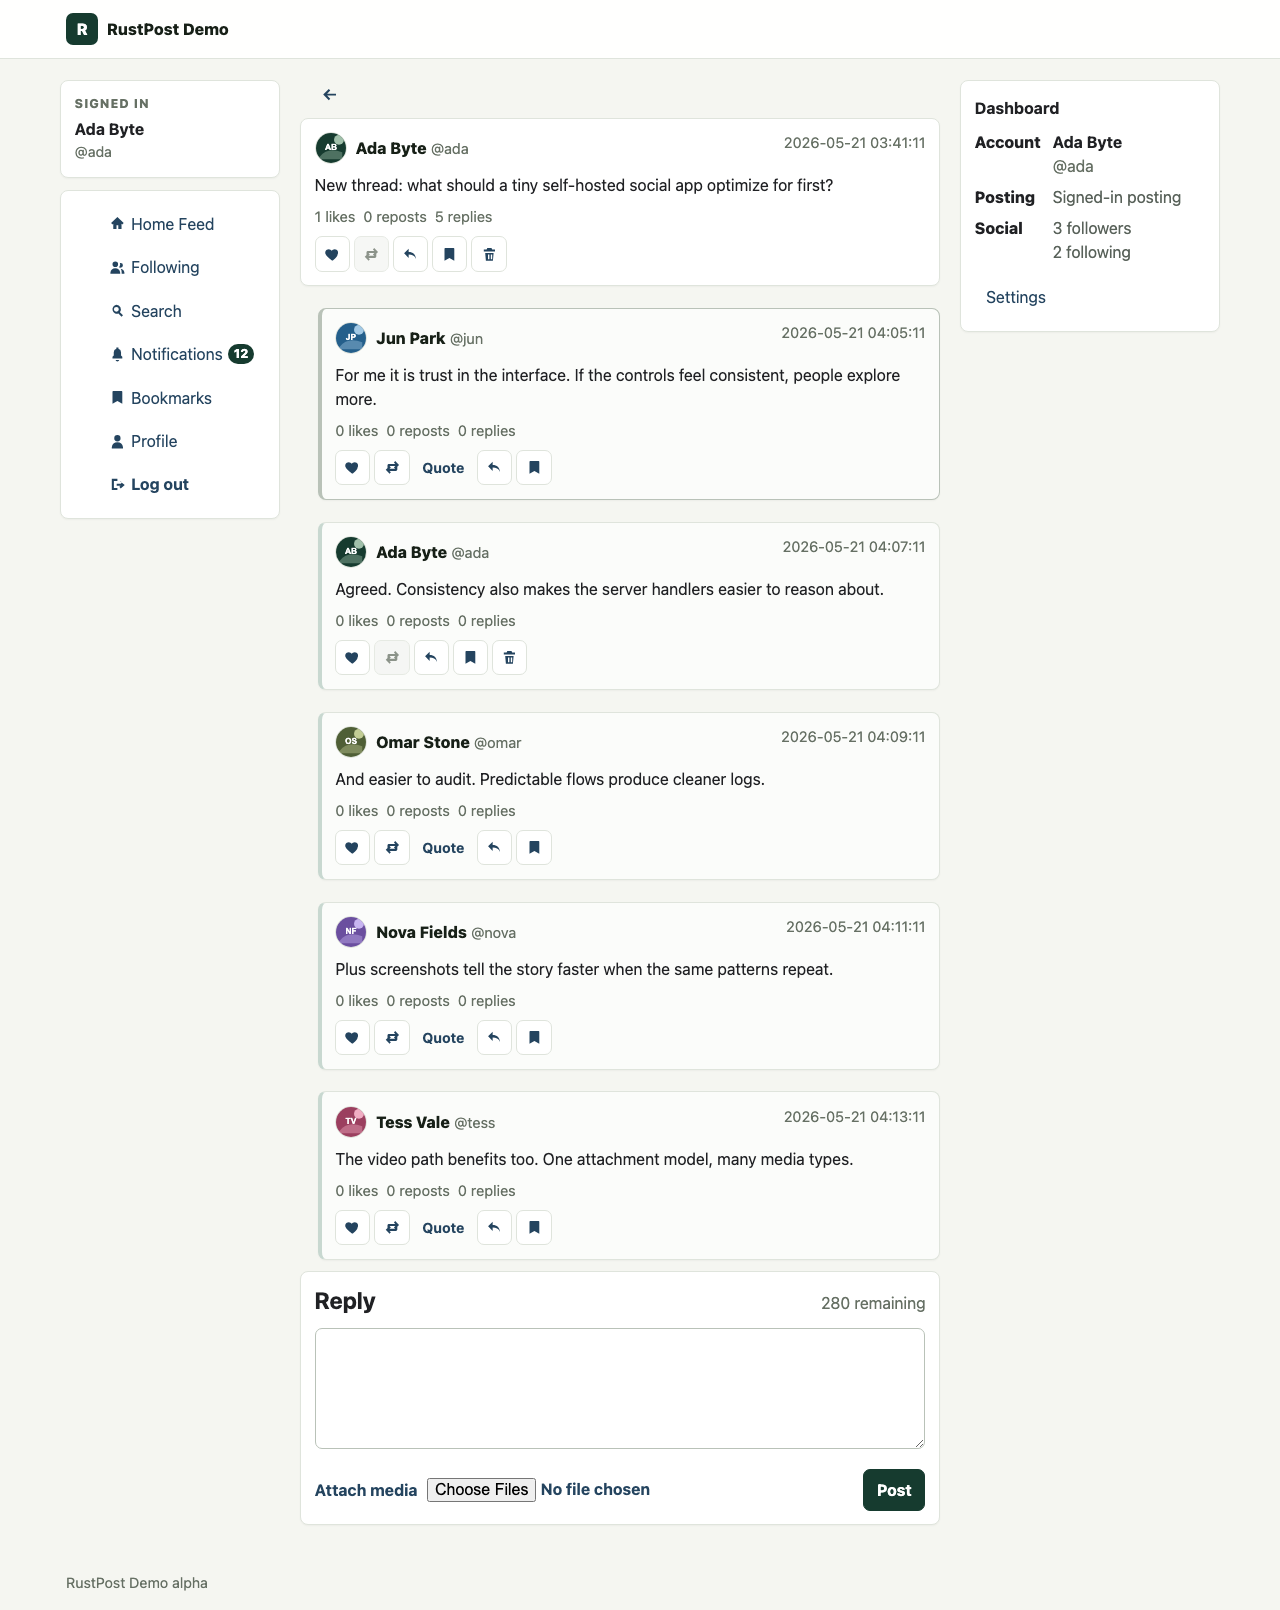
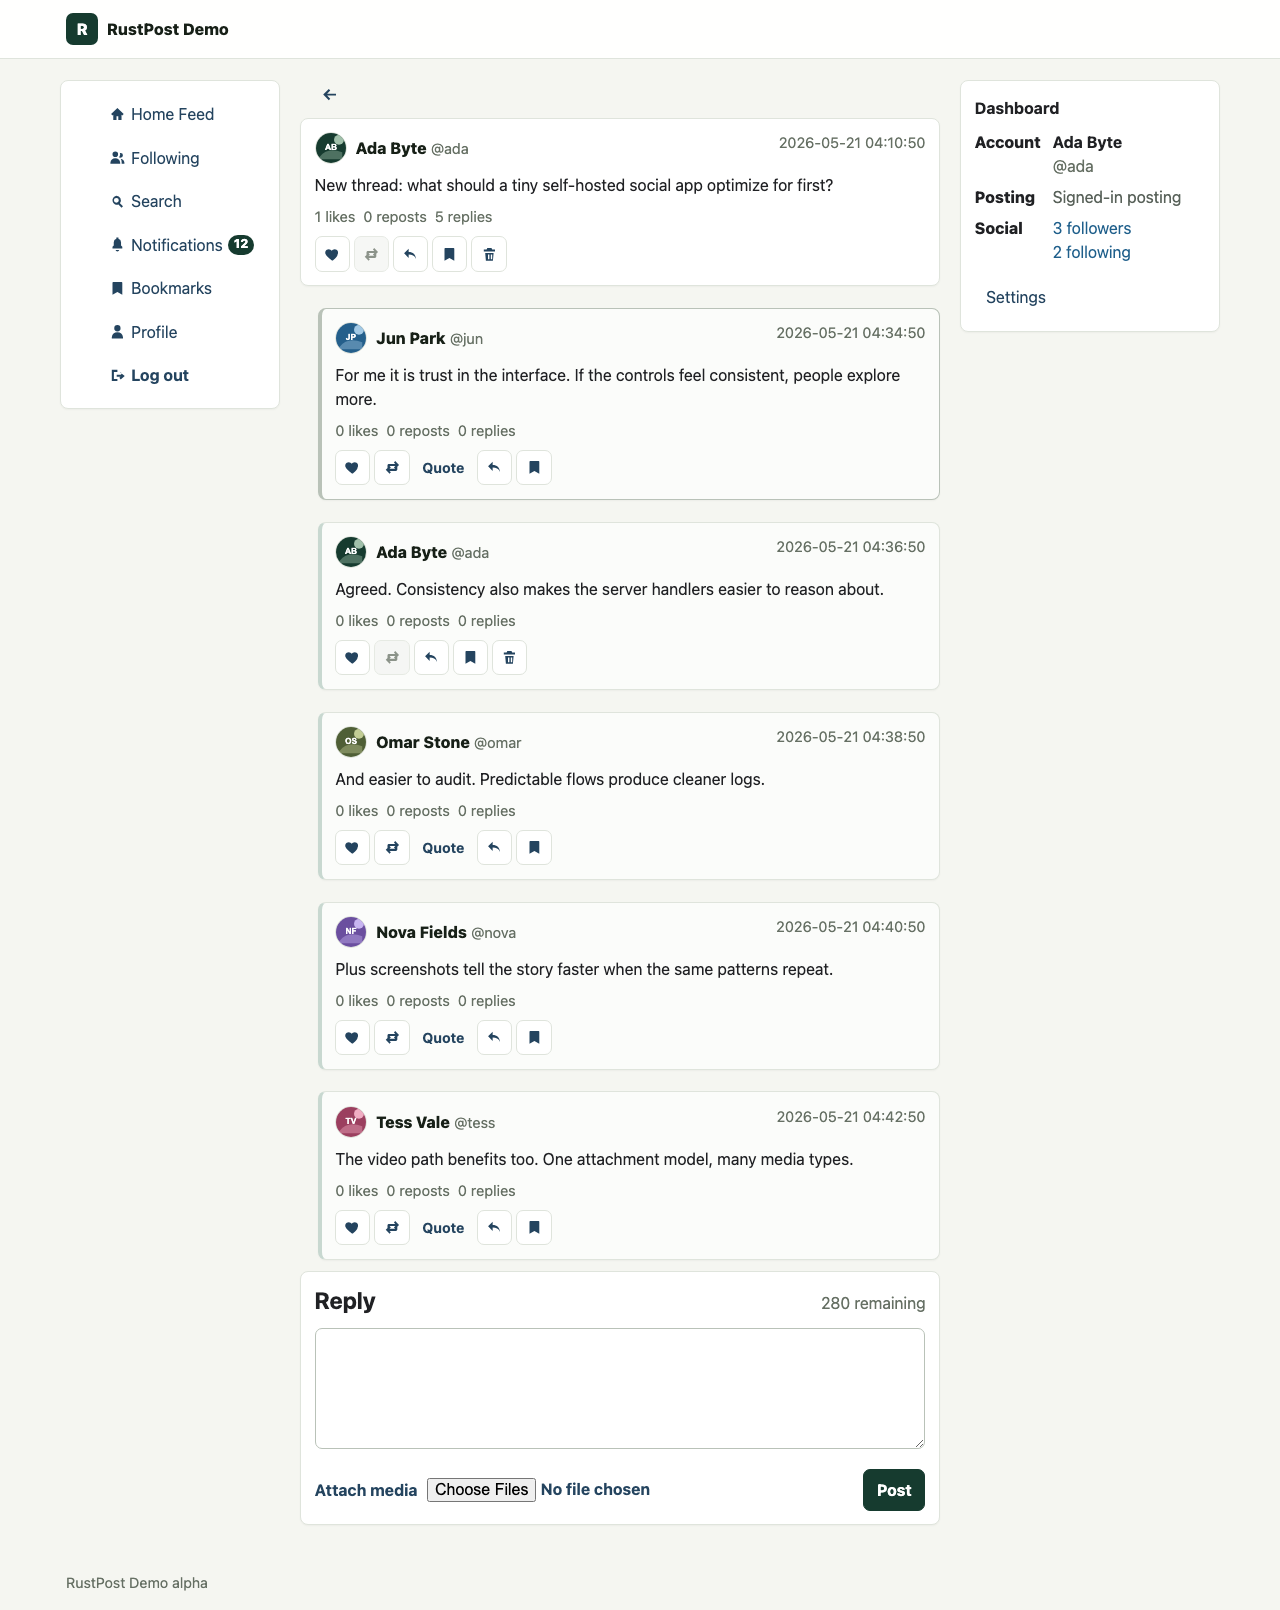
Clean up sidebar and add follower pages

diff --git a/src/render.rs b/src/render.rs
@@ -169,20 +169,9 @@ fn nav_link(href: &str, label: &str, icon: &str) -> String {
     )
 }
 
-fn left_rail(user: Option<&CurrentUser>, nav: &str) -> String {
-    let account = user.map_or_else(
-        || r#"<p class="rail-kicker">Guest session</p><p class="muted">Log in or register to post.</p>"#.to_owned(),
-        |user| {
-            format!(
-                r#"<p class="rail-kicker">Signed in</p><a class="rail-account" href="/users/{}"><strong>{}</strong><span>@{}</span></a>"#,
-                html_escape::encode_double_quoted_attribute(&user.username),
-                html_escape::encode_text(&user.display_name),
-                html_escape::encode_text(&user.username)
-            )
-        },
-    );
+fn left_rail(_user: Option<&CurrentUser>, nav: &str) -> String {
     format!(
-        r#"<aside class="left-rail" data-testid="left-rail"><section class="side-rail-card">{account}</section><nav class="rail-nav" aria-label="Primary">{nav}</nav></aside>"#
+        r#"<aside class="left-rail" data-testid="left-rail"><nav class="rail-nav" aria-label="Primary">{nav}</nav></aside>"#
     )
 }
 
@@ -218,14 +207,15 @@ fn dashboard_panel(user: Option<&CurrentUser>, context: &LayoutContext) -> Strin
     );
     let social = match (context.follower_count, context.following_count) {
         (Some(followers), Some(following)) => {
-            format!(r#"<dt>Social</dt><dd>{followers} followers<br>{following} following</dd>"#)
+            user.map_or_else(String::new, |user| {
+                let username = html_escape::encode_double_quoted_attribute(&user.username);
+                let display_name = html_escape::encode_double_quoted_attribute(&user.display_name);
+                format!(
+                    r#"<dt>Social</dt><dd><a data-testid="dashboard-followers-link" href="/users/{username}/followers" aria-label="View followers for {display_name}">{followers} followers</a><br><a data-testid="dashboard-following-link" href="/users/{username}/following" aria-label="View users {display_name} follows">{following} following</a></dd>"#
+                )
+            })
         }
         _ => String::new(),
-    };
-    let admin = if user.is_some_and(|user| user.is_admin) {
-        r#"<a class="button-link" href="/admin">Admin</a>"#
-    } else {
-        ""
     };
     let settings = if user.is_some() {
         r#"<a class="button-link" href="/settings">Settings</a>"#
@@ -233,7 +223,7 @@ fn dashboard_panel(user: Option<&CurrentUser>, context: &LayoutContext) -> Strin
         ""
     };
     format!(
-        r#"<aside class="right-rail" data-testid="right-rail"><section class="side-rail-card"><h2>Dashboard</h2><dl class="dashboard-list">{}<dt>Posting</dt><dd>{}</dd>{}</dl><div class="quick-links">{settings}{admin}</div></section></aside>"#,
+        r#"<aside class="right-rail" data-testid="right-rail"><section class="side-rail-card"><h2>Dashboard</h2><dl class="dashboard-list">{}<dt>Posting</dt><dd>{}</dd>{}</dl><div class="dashboard-actions">{settings}</div></section></aside>"#,
         account, posting, social
     )
 }
@@ -671,6 +661,41 @@ pub fn accounts(accounts: &[AccountView], csrf: &str) -> String {
         .collect::<Vec<_>>()
         .join("");
     format!(r#"<section class="account-list">{rows}</section>"#)
+}
+
+pub fn account_links(accounts: &[AccountView], empty_message: &str) -> String {
+    if accounts.is_empty() {
+        return empty_state(empty_message, "");
+    }
+    let rows = accounts
+        .iter()
+        .map(|account| {
+            let avatar = account.profile_picture_path.as_ref().map_or_else(
+                || {
+                    let initial = account.display_name.chars().next().unwrap_or('R');
+                    format!(
+                        r#"<span class="post-avatar placeholder" aria-hidden="true">{}</span>"#,
+                        html_escape::encode_text(&initial.to_string())
+                    )
+                },
+                |path| {
+                    format!(
+                        r#"<img class="post-avatar" src="{}" alt="" loading="lazy">"#,
+                        html_escape::encode_double_quoted_attribute(path)
+                    )
+                },
+            );
+            format!(
+                r#"<article class="account-row" data-testid="account-row">{}<div><a class="author-name" href="/users/{}">{}</a> <span class="username">@{}</span></div></article>"#,
+                avatar,
+                html_escape::encode_double_quoted_attribute(&account.username),
+                html_escape::encode_text(&account.display_name),
+                html_escape::encode_text(&account.username)
+            )
+        })
+        .collect::<Vec<_>>()
+        .join("");
+    format!(r#"<section class="account-list" data-testid="account-list">{rows}</section>"#)
 }
 
 pub fn search_page(
@@ -1504,7 +1529,7 @@ nav{display:flex;gap:.35rem;align-items:center;flex-wrap:wrap;justify-content:fl
 nav a:hover,nav button:hover,.button-link:hover{background:var(--hover);text-decoration:none}nav form,.actions form{display:inline}
 nav svg{width:1.05rem;height:1.05rem;fill:currentColor;flex:0 0 auto}
 .nav-badge{display:inline-grid;place-items:center;min-width:1.25rem;height:1.25rem;border-radius:999px;padding:0 .35rem;background:var(--brand);color:var(--brand-text);font-size:.78rem;font-weight:800;line-height:1}
-main{padding:1.25rem}.app-shell{width:min(100%,1180px);margin:0 auto;display:grid;grid-template-columns:220px minmax(0,640px) 260px;gap:1.25rem;align-items:start;justify-content:center}.primary-column{min-width:0;width:100%}.left-rail,.right-rail{min-width:0;position:sticky;top:5rem;display:grid;gap:.75rem}.side-rail-card,.rail-nav{background:var(--surface);border:1px solid var(--border);border-radius:8px;padding:.85rem;color:var(--muted-strong);box-shadow:0 1px 2px var(--shadow)}.side-rail-card h2{margin:.1rem 0 .6rem;font-size:1rem;color:var(--text)}.rail-kicker{margin:0 0 .25rem;color:var(--muted);font-size:.78rem;font-weight:800;text-transform:uppercase;letter-spacing:.08em}.rail-account{display:grid;color:var(--text);overflow-wrap:anywhere}.rail-account span{color:var(--muted);font-size:.9rem}.rail-account:hover{text-decoration:none}.rail-nav{display:grid;gap:.25rem}.rail-nav a,.rail-nav button{width:100%;justify-content:flex-start}.rail-nav form{display:block}.mobile-nav{display:none}.dashboard-list{display:grid;grid-template-columns:auto minmax(0,1fr);gap:.45rem .75rem;margin:.25rem 0 .85rem}.dashboard-list dt{font-weight:800;color:var(--text)}.dashboard-list dd{margin:0;overflow-wrap:anywhere}.dashboard-account{color:var(--text)}.dashboard-account:hover{text-decoration:none}.quick-links{display:flex;flex-wrap:wrap;gap:.4rem}.site-footer{max-width:1180px;margin:0 auto;padding:1rem;color:var(--muted);font-size:.9rem}.footer-onion{display:block;margin-top:.25rem;overflow-wrap:anywhere}
+main{padding:1.25rem}.app-shell{width:min(100%,1180px);margin:0 auto;display:grid;grid-template-columns:220px minmax(0,640px) 260px;gap:1.25rem;align-items:start;justify-content:center}.primary-column{min-width:0;width:100%}.left-rail,.right-rail{min-width:0;position:sticky;top:5rem;display:grid;gap:.75rem}.side-rail-card,.rail-nav{background:var(--surface);border:1px solid var(--border);border-radius:8px;padding:.85rem;color:var(--muted-strong);box-shadow:0 1px 2px var(--shadow)}.side-rail-card h2{margin:.1rem 0 .6rem;font-size:1rem;color:var(--text)}.rail-nav{display:grid;gap:.25rem}.rail-nav a,.rail-nav button{width:100%;justify-content:flex-start}.rail-nav form{display:block}.mobile-nav{display:none}.dashboard-list{display:grid;grid-template-columns:auto minmax(0,1fr);gap:.45rem .75rem;margin:.25rem 0 .85rem}.dashboard-list dt{font-weight:800;color:var(--text)}.dashboard-list dd{margin:0;overflow-wrap:anywhere}.dashboard-account{color:var(--text)}.dashboard-account:hover{text-decoration:none}.dashboard-actions{display:flex;flex-wrap:wrap;gap:.4rem}.site-footer{max-width:1180px;margin:0 auto;padding:1rem;color:var(--muted);font-size:.9rem}.footer-onion{display:block;margin-top:.25rem;overflow-wrap:anywhere}
 .page-header,.post,.composer,.panel,.empty-state,.notice{background:var(--surface);border:1px solid var(--border);border-radius:8px;margin:0 0 .7rem;padding:.85rem;box-shadow:0 1px 2px var(--shadow)}
 .page-header h1,.section-heading h1,.panel h1{margin:0;font-size:1.45rem;line-height:1.2}.panel h1+table,.panel h1+form,.panel h1+p,.panel h1+dl{margin-top:.85rem}.page-header p,.muted,.empty-state p{color:var(--muted);margin:.35rem 0 0}.section-heading{display:flex;justify-content:space-between;gap:1rem;align-items:baseline;margin-bottom:.8rem}
 .notifications-hero{background:var(--surface);border:1px solid var(--border);border-radius:8px;margin:0 0 .7rem;padding:1rem;box-shadow:0 1px 2px var(--shadow);display:flex;align-items:center;justify-content:space-between;gap:1rem}.notifications-hero h1{margin:0;font-size:1.55rem;line-height:1.15}.notifications-hero p:not(.eyebrow){margin:.35rem 0 0;color:var(--muted-strong)}.caught-up-pill{display:inline-flex;align-items:center;min-height:2rem;border:1px solid var(--success-border);border-radius:999px;background:var(--success-bg);color:var(--text-strong);padding:.32rem .75rem;font-weight:800}.caught-up{padding:.75rem .85rem}.caught-up p{margin:0}.notifications-list{display:grid;gap:.5rem}.notification-group{margin:.8rem .15rem .2rem;color:var(--muted);font-size:.82rem;text-transform:uppercase;letter-spacing:.08em}.notification-row{position:relative;display:grid;grid-template-columns:auto minmax(0,1fr) auto;gap:.75rem;align-items:start;background:var(--surface);border:1px solid var(--border);border-radius:8px;padding:.8rem;box-shadow:0 1px 2px var(--shadow)}.notification-row.unread{border-color:var(--border-strong);background:var(--surface-subtle)}.notification-row[data-card-href]{cursor:pointer}.notification-row[data-card-href]:hover{border-color:var(--border-strong);background:var(--hover)}.notification-kind{display:grid;place-items:center;width:2rem;height:2rem;border-radius:7px;background:var(--surface-muted);color:var(--link-strong);font-weight:900;font-size:.8rem}.notification-row.unread .notification-kind{background:var(--brand);color:var(--brand-text)}.notification-body{min-width:0}.notification-line{margin:0;overflow-wrap:anywhere}.notification-meta{margin:.35rem 0 0;color:var(--muted);font-size:.88rem}.notification-preview{display:block;margin:.5rem 0 0;border:1px solid var(--border);border-radius:7px;padding:.55rem .65rem;background:var(--surface-subtle);color:var(--muted-strong);overflow-wrap:anywhere}.notification-preview:hover{background:var(--surface);text-decoration:none}.notification-preview.unavailable{border-style:dashed}.unread-dot{width:.65rem;height:.65rem;border-radius:999px;background:var(--brand);margin-top:.7rem}
@@ -1591,6 +1616,41 @@ mod tests {
     }
 
     #[test]
+    fn signed_in_left_rail_contains_navigation_only() {
+        let user = CurrentUser {
+            id: 1,
+            username: "ada".to_owned(),
+            display_name: "Ada Lovelace".to_owned(),
+            is_admin: false,
+            is_suspended: false,
+            theme: Theme::Light,
+        };
+        let body = layout_with_csrf(
+            Some(&user),
+            Some("csrf"),
+            "Home Feed",
+            "<p>body</p>",
+            "RustPost",
+        );
+        let left_rail = body
+            .split_once(r#"<aside class="left-rail" data-testid="left-rail">"#)
+            .and_then(|(_, rest)| rest.split_once("</aside>"))
+            .map(|(panel, _)| panel)
+            .expect("left rail");
+
+        assert!(left_rail.contains("Home Feed"));
+        assert!(left_rail.contains("Following"));
+        assert!(left_rail.contains("Search"));
+        assert!(left_rail.contains("Notifications"));
+        assert!(left_rail.contains("Bookmarks"));
+        assert!(left_rail.contains("Profile"));
+        assert!(left_rail.contains("Log out"));
+        assert!(!left_rail.contains("Signed in"));
+        assert!(!left_rail.contains("Ada Lovelace"));
+        assert!(!left_rail.contains("rail-account"));
+    }
+
+    #[test]
     fn dashboard_uses_account_link_without_duplicate_feed_links_or_onion() {
         let user = CurrentUser {
             id: 1,
@@ -1621,8 +1681,16 @@ mod tests {
             .expect("dashboard panel");
         assert!(dashboard.contains(r#"href="/users/ada""#));
         assert!(dashboard.contains("Ada Lovelace"));
+        assert!(dashboard.contains(r#"href="/users/ada/followers""#));
+        assert!(dashboard.contains(r#"aria-label="View followers for Ada Lovelace""#));
+        assert!(dashboard.contains(">2 followers</a>"));
+        assert!(dashboard.contains(r#"href="/users/ada/following""#));
+        assert!(dashboard.contains(r#"aria-label="View users Ada Lovelace follows""#));
+        assert!(dashboard.contains(">3 following</a>"));
+        assert!(dashboard.contains(r#"<a class="button-link" href="/settings">Settings</a>"#));
         assert!(!dashboard.contains(r#"href="/home">Home Feed"#));
         assert!(!dashboard.contains(r#"href="/following">Following"#));
+        assert!(!dashboard.contains("quick-links"));
         assert!(!dashboard.contains("examplehiddenservice.onion"));
     }
 

diff --git a/src/server.rs b/src/server.rs
@@ -72,6 +72,8 @@ pub fn router(state: Arc<AppState>) -> Router {
         .route("/posts/{id}/quote", get(quote_form).post(quote_post))
         .route("/posts/{id}/reply", post(reply_redirect))
         .route("/users/{username}", get(profile))
+        .route("/users/{username}/followers", get(profile_followers))
+        .route("/users/{username}/following", get(profile_following))
         .route("/users/{id}/follow", post(follow))
         .route("/users/{id}/unfollow", post(unfollow))
         .route("/users/{id}/block", post(block))
@@ -1058,6 +1060,100 @@ async fn profile(
             user.as_ref(),
             csrf.as_deref(),
             &profile_username,
+            &body,
+        )
+        .await?,
+    ))
+}
+
+async fn profile_identity(
+    pool: &SqlitePool,
+    username: &str,
+) -> anyhow::Result<Option<(i64, String, String)>> {
+    let normalized_username = username.to_ascii_lowercase();
+    pool.call(move |conn| {
+        conn.query_row(
+            r#"
+            SELECT id, username, display_name
+            FROM users
+            WHERE normalized_username = ? AND is_deleted = 0
+            "#,
+            [normalized_username],
+            |row| Ok((row.get(0)?, row.get(1)?, row.get(2)?)),
+        )
+        .optional()
+        .map_err(Into::into)
+    })
+    .await
+}
+
+async fn profile_followers(
+    State(state): State<Arc<AppState>>,
+    headers: HeaderMap,
+    Path(username): Path<String>,
+) -> AppResult<Html<String>> {
+    let user = current(&state, &headers).await?;
+    let csrf = form_csrf(&state, &headers).await;
+    let Some((profile_id, profile_username, display_name)) =
+        profile_identity(&state.pool, &username).await?
+    else {
+        return Err(AppError::NotFound);
+    };
+    let accounts =
+        social::followers_accounts(&state.pool, profile_id, user.as_ref().map(|user| user.id))
+            .await?;
+    let body = format!(
+        "{}{}",
+        render::page_header(
+            &format!("{display_name} followers"),
+            &format!("Users who follow @{profile_username}.")
+        ),
+        render::account_links(&accounts, "No followers yet.")
+    );
+    Ok(Html(
+        page_layout(
+            &state,
+            user.as_ref(),
+            csrf.as_deref(),
+            &format!("{display_name} followers"),
+            &body,
+        )
+        .await?,
+    ))
+}
+
+async fn profile_following(
+    State(state): State<Arc<AppState>>,
+    headers: HeaderMap,
+    Path(username): Path<String>,
+) -> AppResult<Html<String>> {
+    let user = current(&state, &headers).await?;
+    let csrf = form_csrf(&state, &headers).await;
+    let Some((profile_id, profile_username, display_name)) =
+        profile_identity(&state.pool, &username).await?
+    else {
+        return Err(AppError::NotFound);
+    };
+    let accounts = social::following_accounts_for_profile(
+        &state.pool,
+        profile_id,
+        user.as_ref().map(|user| user.id),
+    )
+    .await?;
+    let body = format!(
+        "{}{}",
+        render::page_header(
+            &format!("{display_name} following"),
+            &format!("Users @{profile_username} follows.")
+        ),
+        render::account_links(&accounts, "Not following anyone yet.")
+    );
+    Ok(Html(
+        page_layout(
+            &state,
+            user.as_ref(),
+            csrf.as_deref(),
+            &format!("{display_name} following"),
             &body,
         )
         .await?,

diff --git a/src/social.rs b/src/social.rs
@@ -487,6 +487,84 @@ pub async fn following_accounts(
     .await
 }
 
+pub async fn followers_accounts(
+    pool: &SqlitePool,
+    account_id: i64,
+    viewer_id: Option<i64>,
+) -> anyhow::Result<Vec<AccountView>> {
+    let viewer_id = viewer_id.unwrap_or(0);
+    pool.call(move |conn| {
+        let mut stmt = conn.prepare(
+            r#"
+            SELECT u.id, u.username, u.display_name, u.bio,
+              COALESCE(pic.thumbnail_public_path, pic.public_path),
+              EXISTS(
+                SELECT 1 FROM follows vf
+                WHERE vf.follower_id = ? AND vf.followed_id = u.id
+              )
+            FROM follows f
+            JOIN users u ON u.id = f.follower_id
+            LEFT JOIN media pic ON pic.id = u.profile_picture_media_id
+            WHERE f.followed_id = ? AND u.is_deleted = 0
+            ORDER BY lower(u.username)
+            "#,
+        )?;
+        let rows = stmt
+            .query_map(params![viewer_id, account_id], |row| {
+                Ok(AccountView {
+                    id: row.get(0)?,
+                    username: row.get(1)?,
+                    display_name: row.get(2)?,
+                    bio: row.get(3)?,
+                    profile_picture_path: row.get(4)?,
+                    viewer_following: row.get::<_, i64>(5)? != 0,
+                })
+            })?
+            .collect::<Result<Vec<_>, _>>()?;
+        Ok(rows)
+    })
+    .await
+}
+
+pub async fn following_accounts_for_profile(
+    pool: &SqlitePool,
+    account_id: i64,
+    viewer_id: Option<i64>,
+) -> anyhow::Result<Vec<AccountView>> {
+    let viewer_id = viewer_id.unwrap_or(0);
+    pool.call(move |conn| {
+        let mut stmt = conn.prepare(
+            r#"
+            SELECT u.id, u.username, u.display_name, u.bio,
+              COALESCE(pic.thumbnail_public_path, pic.public_path),
+              EXISTS(
+                SELECT 1 FROM follows vf
+                WHERE vf.follower_id = ? AND vf.followed_id = u.id
+              )
+            FROM follows f
+            JOIN users u ON u.id = f.followed_id
+            LEFT JOIN media pic ON pic.id = u.profile_picture_media_id
+            WHERE f.follower_id = ? AND u.is_deleted = 0
+            ORDER BY lower(u.username)
+            "#,
+        )?;
+        let rows = stmt
+            .query_map(params![viewer_id, account_id], |row| {
+                Ok(AccountView {
+                    id: row.get(0)?,
+                    username: row.get(1)?,
+                    display_name: row.get(2)?,
+                    bio: row.get(3)?,
+                    profile_picture_path: row.get(4)?,
+                    viewer_following: row.get::<_, i64>(5)? != 0,
+                })
+            })?
+            .collect::<Result<Vec<_>, _>>()?;
+        Ok(rows)
+    })
+    .await
+}
+
 pub async fn block(pool: &SqlitePool, blocker_id: i64, blocked_id: i64) -> anyhow::Result<()> {
     if blocker_id == blocked_id {
         anyhow::bail!("cannot block yourself");
